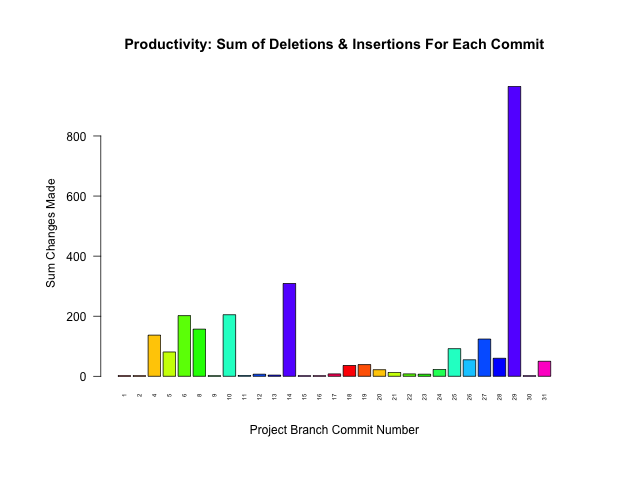
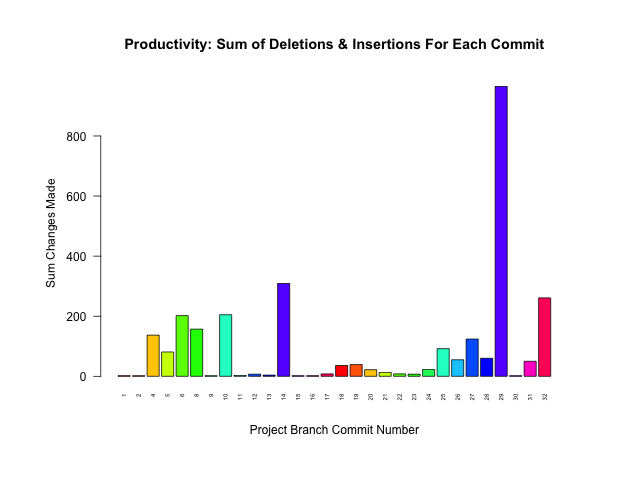
COMMIT #88

diff --git a/README.md b/README.md
@@ -16,8 +16,8 @@ ProjectName::BranchName.data
 
 Project Name | Last Updated | Number of Commits
 :---|:---|:---
-FASTQ_examiner_project                   |  2023-02-25  |  31
-commit_tracker_project                   |  2023-02-18  |  86
+FASTQ_examiner_project                   |  2023-03-01  |  32
+commit_tracker_project                   |  2023-02-25  |  86
 minishell_project                        |  2023-02-03  |  67
 ft_printf_project                        |  2023-01-27  |  36
 test_non-fastforward_merge-push_project  |  2023-01-27  |  15
